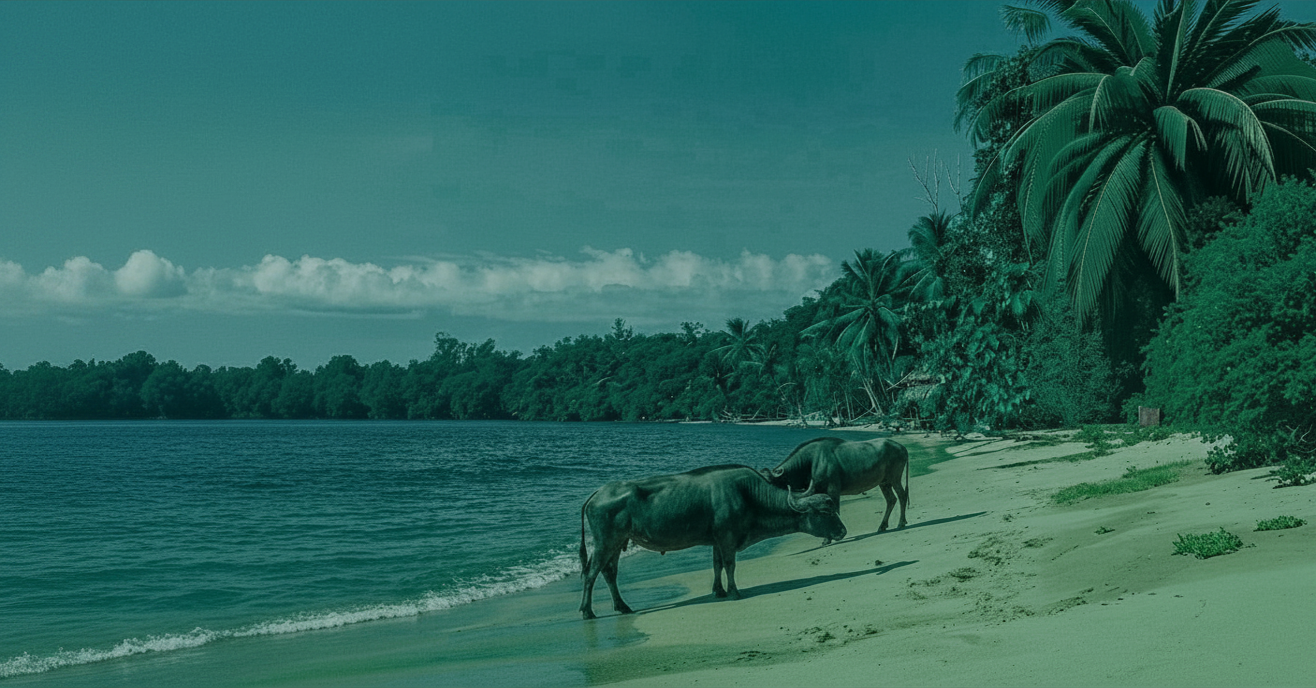
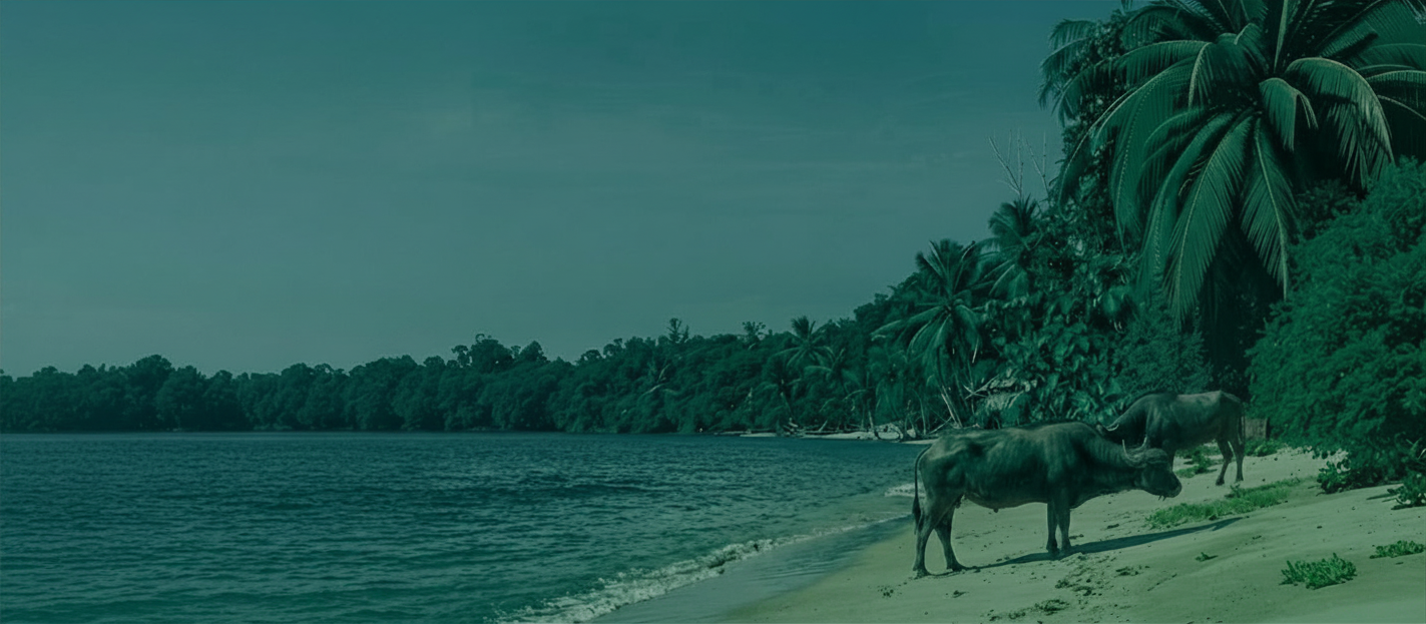
style: Altera foto de fundo do layout desktop e header

diff --git a/css/hero.css b/css/hero.css
@@ -173,12 +173,18 @@
 @media screen and (min-width: 1024px) {
     .hero {
         background-image: url(../img/background-marajo-desktop.png);
+        height: 900px;
+
     }
 
     .hero-container {
-        max-width: 1000px;
+        max-width: 1200px;
         padding: 0 20px;  
         margin: 0 auto;   
+    }
+
+    .hero-location {
+    margin-top: 150px;
 }
     
 }

diff --git a/css/header.css b/css/header.css
@@ -11,7 +11,7 @@ header {
     display: flex;
     flex-direction: row;
     width: 100%;
-    max-width: 1000px;  
+    max-width: 1200px;  
     padding: 10px 20px;  
     justify-content: space-between;
     align-items: center;
@@ -156,7 +156,7 @@ nav {
     .header-container {
         display: flex;
         flex-direction: row;
-        max-width: 1000px;
+        max-width: 1200px;
         padding: 10px 20px;
         justify-content: space-between;
         align-items: center;